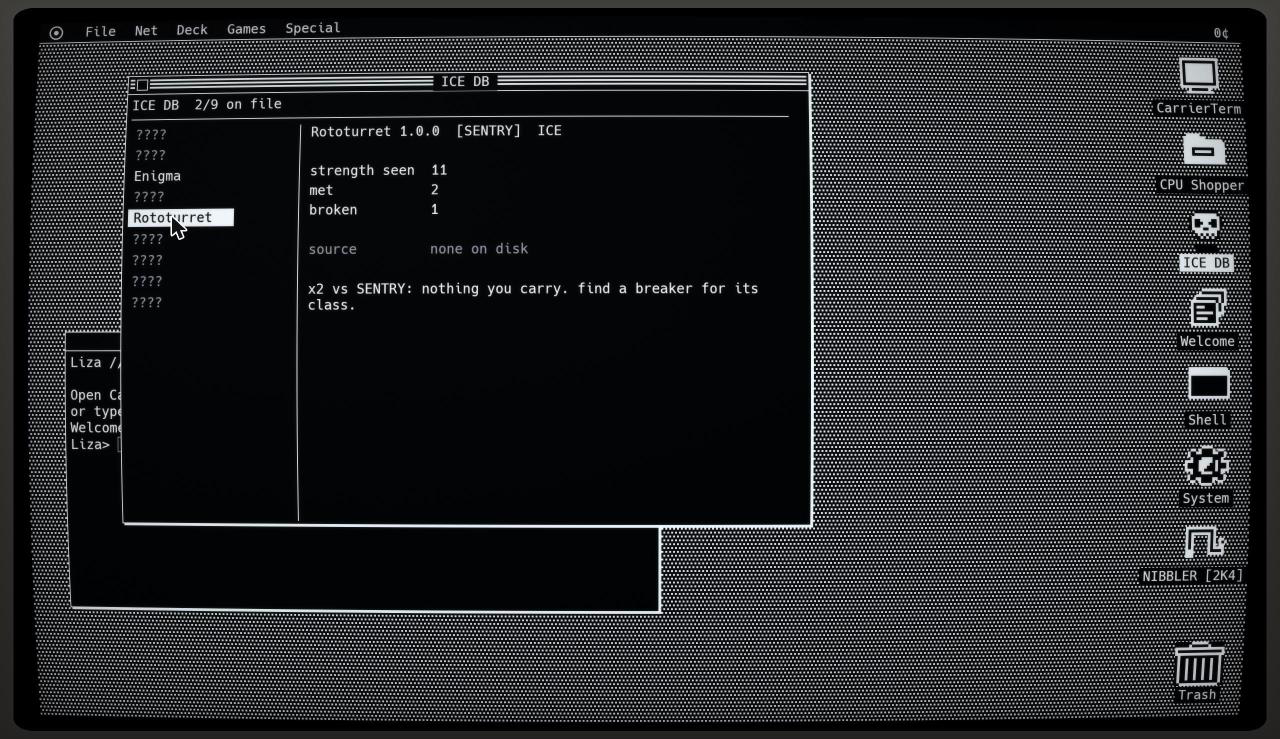
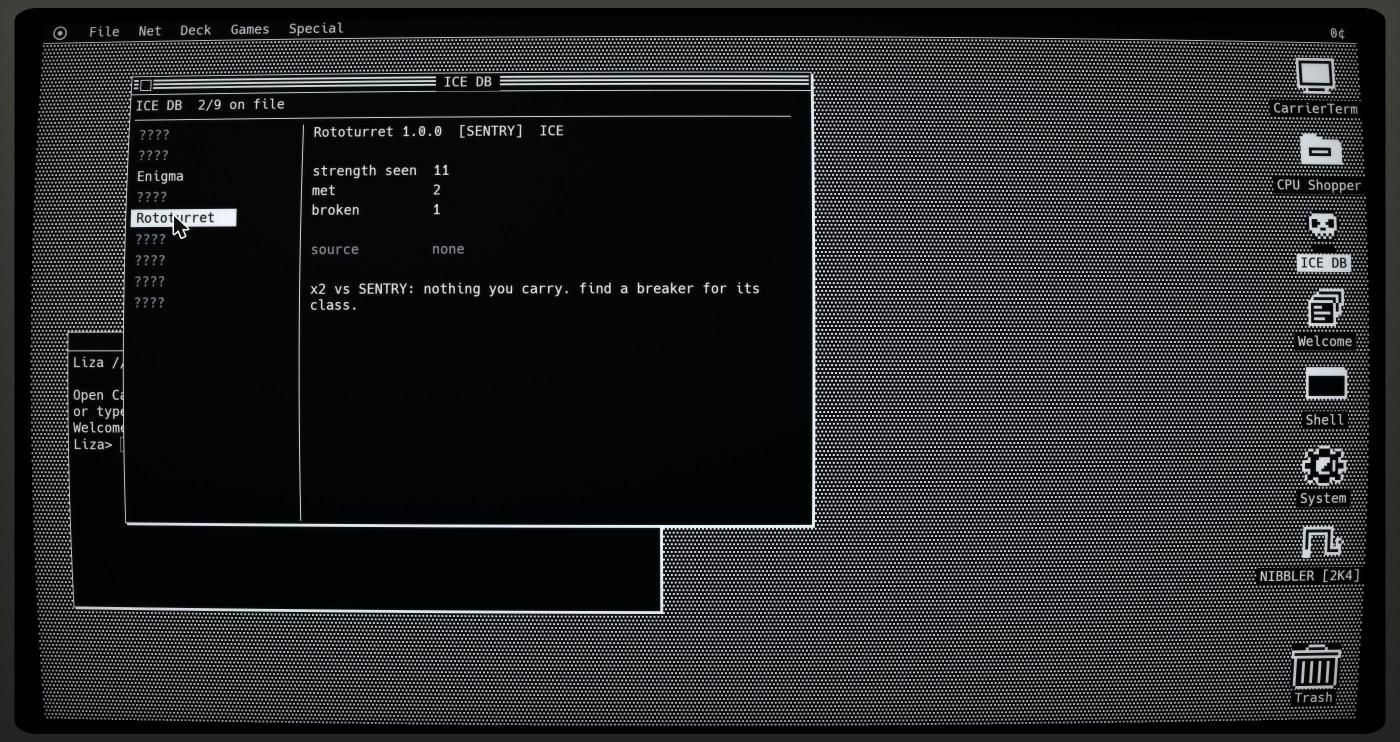
fix: no source names no disk: the stack says (none), the ICE DB source none
A source is the ICE DB's and the IDE's data, never a program on the deck, so neither screen points at the disk; the words test now forbids it. Shots retaken.

diff --git a/crates/core/src/icedb.rs b/crates/core/src/icedb.rs
@@ -174,11 +174,11 @@ impl<'a> Entry<'a> {
     }
 
     /// The newest source you own, listed whole and marked against the one before it you own;
-    /// with none, a line saying there's none on disk.
+    /// with none, a line saying there's none.
     pub fn listing(&self) -> Vec<PageLine> {
         if self.sources.is_empty() {
             return vec![PageLine {
-                text: "source         none on disk".into(),
+                text: "source         none".into(),
                 muted: true,
             }];
         }
@@ -186,7 +186,7 @@ impl<'a> Entry<'a> {
     }
 
     /// The changelog under the listing: a row per version you've met or own the source of (its
-    /// number, how it was made, the fights it won and lost, whether its source is on disk),
+    /// number, how it was made, the fights it won and lost, whether you own its source),
     /// newest first, then each older source you own, marked against the one before it. Empty
     /// until there are two versions to list.
     pub fn changelog(&self) -> Vec<PageLine> {

diff --git a/crates/core/tests/ice_listing.rs b/crates/core/tests/ice_listing.rs
@@ -279,17 +279,14 @@ fn each_deck_says_there_is_no_source_in_its_own_words() {
         ("hosaka", suite::ICE_WORDS),
         ("classic", ice_listing::CLASSIC),
     ];
-    assert_eq!(
-        stack_fight::ICE_WORDS.none,
-        "its program isn't on this disk."
-    );
+    assert_eq!(stack_fight::ICE_WORDS.none, "(none)");
     assert_eq!(btop_fight::ICE_WORDS.none, "[ no source available ]");
     assert_eq!(suite::ICE_WORDS.none, "PROGRAM HAS NO SYMBOL TABLE");
     for (deck, w) in decks {
         // What is there, never where to get one or that one can be got, never a count.
         let none = w.none.to_lowercase();
         for coach in [
-            "download", "board", "bbs", "buy", "get", "find", "line", "seen",
+            "download", "board", "bbs", "buy", "get", "find", "line", "seen", "disk",
         ] {
             assert!(!none.contains(coach), "{deck}: {:?}", w.none);
         }

diff --git a/crates/core/tests/ice_changelog.rs b/crates/core/tests/ice_changelog.rs
@@ -243,7 +243,7 @@ fn with_no_source_the_page_says_so_and_shows_no_code() {
         .filter(|l| l.muted)
         .map(|l| l.text)
         .collect();
-    assert_eq!(muted, ["source         none on disk"]);
+    assert_eq!(muted, ["source         none"]);
     for stmt in ["SHIELD", "TRACE 10", "ATTACK 4", "TRACE 4"] {
         assert!(!p.iter().any(|l| l.contains(stmt)), "{stmt}: {p:#?}");
     }
@@ -336,10 +336,7 @@ fn a_source_of_another_program_at_the_version_met_is_not_that_version_s() {
     let mut s = met_twice(&[]);
     s.ice_sources.push(source(v101(), V102));
     let p = page(&s, &d);
-    assert!(
-        p.contains(&"source         none on disk".to_string()),
-        "{p:#?}"
-    );
+    assert!(p.contains(&"source         none".to_string()), "{p:#?}");
     assert!(!p.iter().any(|l| l.contains("TRACE 5")), "{p:#?}");
     let rows = at(&p, "versions");
     assert_eq!(

diff --git a/crates/core/src/stack_fight.rs b/crates/core/src/stack_fight.rs
@@ -37,11 +37,12 @@ impl BlockKind {
     }
 }
 
-/// The ICE card's words for the ICE's program, the stack's: everything labelled, in plain
-/// words.
+/// The ICE card's words for the ICE's program, the stack's: everything labelled, and a field
+/// with nothing in it says `(none)` under its label, as a Get Info window would. It names no
+/// disk: a source isn't a program the deck carries.
 pub const ICE_WORDS: crate::ice_listing::IceWords = crate::ice_listing::IceWords {
     heading: "its program",
-    none: "its program isn't on this disk.",
+    none: "(none)",
 };
 
 /// The palette row, in order.

diff --git a/crates/core/tests/ice_shown_acceptance.rs b/crates/core/tests/ice_shown_acceptance.rs
@@ -100,7 +100,7 @@ fn the_ice_db_shows_only_the_sources_you_own() {
             "{}",
             page[0]
         );
-        assert!(page.contains(&"source         none on disk".to_string()));
+        assert!(page.contains(&"source         none".to_string()));
         for (_, _, program) in met.iter().filter(|(id, ..)| *id == e.def.id) {
             for stmt in statements(&e.def.id, program) {
                 assert!(

diff --git a/crates/core/tests/icedb.rs b/crates/core/tests/icedb.rs
@@ -105,7 +105,7 @@ fn a_fight_fills_in_its_entry() {
     let page = e.lines(&s, &d).join("\n");
     assert!(page.contains(e.def.class.label()));
     assert!(
-        page.contains("source         none on disk"),
+        page.contains("source         none"),
         "fighting it got no code: {page}"
     );
     // Fought again and lost: met twice, broken once.

diff --git a/docs/design.md b/docs/design.md
@@ -197,7 +197,7 @@ One pass through the program is one turn: start at the first line and run until 
 
 **NEXT is a dry run.** What the card telegraphs is the ICE's program walked from where it is to its first action, its IFs read against the fight as it stands, with no side effects and nothing from the RNG; it is asked again whenever it's shown or read, so it changes during your turn when you change what the ICE reads. Shield against Enigma (`10 IF TARGET SHIELD > 0` / `20 TRACE 10` / `30 ATTACK 4`) and its NEXT turns from ATTACK to TRACE on screen before it acts; that flip is the point, the preview being the rule. Lagged, or a program that would stall or run out of RAM first, has no NEXT. Only the next move is known: past it the ICE reads the fight as it will be then, so no screen lists moves ahead.
 
-**The ICE's code is downloaded, never watched** (141.11; 141.3.2 first showed what the deck had seen it run). Fighting an ICE reveals none of its program, on any deck, in the log or in the ICE DB: no line, no line count, no cursor. The listing is the **source** of the version in front, if the save owns it (`Save::ice_sources`, one per kind and version; a run takes them in at jack-in, and one got in a run comes home even on a flatline), or nothing at all. Owning 1.2.0 says nothing of 1.2.1. With the source every screen lists the program whole, with a mark on the line it carries on from and NEXT's line emphasised: the Sense/Net's ICE card under the hotbar (`its program`); the Ono-Sendai's fight view three lines under NEXT and `target.ice` a window under `PROG`, in btop's lowercase; the Hosaka's incident report a PROCEDURE table (step, statement) straight after its form, before the strength chart. Without it each deck says so as its software would and says no more, never where to get one: the stack `its program isn't on this disk.`, gdb's `[ no source available ]`, Turbo Debugger's `PROGRAM HAS NO SYMBOL TABLE`, the classic panes `NO SOURCE.`. The log keeps what the ICE did and drops which line did it (`Enigma hits for 4.`, not `Enigma 30 ATTACK 4: hits for 4.`; its IFs and GOTOs aren't said); with the source it reads as a debugger's trace again. **The telegraph is free**: NEXT, the fight view's charge ring and `IF NEXT …` work with no source, so a fight without one is playable but blind to the ICE's logic. A source is the ICE DB's and the IDE's data, a file and not a program: it takes no HDD slot and no stash room, and a fight shows it with or without the ICE DB. A new deck owns none, so its first fights are blind. Nothing in the game hands one out yet: the boards will carry them (141.11.2).
+**The ICE's code is downloaded, never watched** (141.11; 141.3.2 first showed what the deck had seen it run). Fighting an ICE reveals none of its program, on any deck, in the log or in the ICE DB: no line, no line count, no cursor. The listing is the **source** of the version in front, if the save owns it (`Save::ice_sources`, one per kind and version; a run takes them in at jack-in, and one got in a run comes home even on a flatline), or nothing at all. Owning 1.2.0 says nothing of 1.2.1. With the source every screen lists the program whole, with a mark on the line it carries on from and NEXT's line emphasised: the Sense/Net's ICE card under the hotbar (`its program`); the Ono-Sendai's fight view three lines under NEXT and `target.ice` a window under `PROG`, in btop's lowercase; the Hosaka's incident report a PROCEDURE table (step, statement) straight after its form, before the strength chart. Without it each deck says so as its software would and says no more, never where to get one: the stack `(none)` under its heading, gdb's `[ no source available ]`, Turbo Debugger's `PROGRAM HAS NO SYMBOL TABLE`, the classic panes `NO SOURCE.`. The log keeps what the ICE did and drops which line did it (`Enigma hits for 4.`, not `Enigma 30 ATTACK 4: hits for 4.`; its IFs and GOTOs aren't said); with the source it reads as a debugger's trace again. **The telegraph is free**: NEXT, the fight view's charge ring and `IF NEXT …` work with no source, so a fight without one is playable but blind to the ICE's logic. A source is the ICE DB's and the IDE's data, a file and not a program: it takes no HDD slot and no stash room, and a fight shows it with or without the ICE DB. A new deck owns none, so its first fights are blind. Nothing in the game hands one out yet: the boards will carry them (141.11.2).
 
 **ICE that attack the program** (141.3.3). Two verbs hit your program rather than your deck, so the answer is a better program, never a number:
 - **`SPOOF n`** hides the ICE's NEXT for the next n turns: every deck reads `???`, `IF NEXT …` is false (and still spends its GB), and the listing marks no NEXT line. The counter is a program that guards on INTEG instead, or the **sniffer**, RAZORWIRE's warez on Dead Sector, whose RUN clears the spoof.
@@ -215,7 +215,7 @@ A reader of the ICE's listing can predict both *when* and *where* (Archer SPOOFs
 - **The sysops simulate your script.** The rules book every fight of a run (a **bout**): how it opened (the deck's integrity and trace, the ICE's strength), the version it ran, and the deck as the ICE's conditions read it at each of its turns (a **tell**); the run's history and graphs don't feed it. When the deck beats a kind's version in force, its sysops wake with what they logged: the deck's numbers and programs, its script as the fight opened (not what the fight's SEGFAULTs left of it), and how that fight opened. They draft versions and fight each one against the script in the real game, from every start they kept (the latest six), and the first draft that costs the deck more than the version in force does (integrity lost, as a percent of its most, plus trace gained) by the bar ships. Least effort is the bound: they stop at the first draft over the bar, never the best, and try patches first, then minors, then majors. After their patience they rest without shipping. They rest on a kind once it ships, until the deck beats the version in force again; a new script starts a new search at patches. They only know the script: turns played by hand from the hotbar are how you stay unpredictable. **An ICE that kills you doesn't evolve**: the kind whose fight ended the run did its job, and its sysops rest. Drafts lean on the reads the script walked into in their duels. The ICE's machine is the only cap on how strong a version gets: with a few lines, its RAM and its verbs, it can't counter every move, which is why it has to keep evolving. A machine must hold a counter to the lazy program, though: SAFE_PICK raises two firewalls a turn (shield 10) whenever the ICE is next to attack, so Rototurret, whose only verb is Attack, has a range that reaches past 10. The bar, the pace and the patience are in `tuning.rs`.
 - **On the clock, mid-run too.** The sysops work on the game's running time, whether you're playing, reading or away from the keyboard: each kind under study gets a draft every five seconds (`STUDY_DRAFT_MS`), so a version usually lands within minutes of the deck beating its kind, and time with nobody studying banks nothing. A version that ships is in force on every net from the next fight with that kind, in the middle of a run if that's when it lands; a fight under way keeps the version it opened on, and its card says so. It is met knowing none of its lines, whatever source of the last the deck owns. What a version contains comes from the save's key, the kind, the version, the draft's number and the deck that beat it, so the same save and script reach the same versions however the time was sliced; only when they land depends on the clock. Every draw passes the check the row's own program passed; one that doesn't is drawn again, and when nothing of that size fits, a smaller change is made, or none.
 - **The version is where the name is.** Every fight screen that names its ICE names its version beside it: the Sense/Net's ICE card (`ENIGMA 1.1.1`), the Ono-Sendai's fight view and `target.ice`, the Hosaka's SUBJECT row and ICE watch, and the rez line in the log (`!! Enigma 1.1.1 rezzed`). 1.0.0 shows too: the number is the player's to read. The map names no ICE, only its class, so it shows no version. The step lines keep the bare name.
-- **The ICE DB is a changelog of the sources you own.** A kind's page heads with the version last met (`Enigma 1.1.1  [CODE GATE]  ICE`) and its fight record, then lists the newest source you own (`source         1.1.0, against 1.0.0`), or `none on disk`. It is marked against the next older source you own, a block at a time (an IF and its line, or a line on its own: the unit a version changes): a block is `~` if the older version had it elsewhere, `+` if it didn't, and a block that kept its read but changed inside is marked line by line; the older version's lines that are gone follow as `-`. The heading names the version its marks are against, which may not be the one it was made from. Under it, a row per version met or owned (its number, `patch`/`minor`/`major`, won and lost, `-` if never met, and whether its source is on disk), then each older source. A version met without its source has its number and record and no code.
+- **The ICE DB is a changelog of the sources you own.** A kind's page heads with the version last met (`Enigma 1.1.1  [CODE GATE]  ICE`) and its fight record, then lists the newest source you own (`source         1.1.0, against 1.0.0`), or `none`. It is marked against the next older source you own, a block at a time (an IF and its line, or a line on its own: the unit a version changes): a block is `~` if the older version had it elsewhere, `+` if it didn't, and a block that kept its read but changed inside is marked line by line; the older version's lines that are gone follow as `-`. The heading names the version its marks are against, which may not be the one it was made from. Under it, a row per version met or owned (its number, `patch`/`minor`/`major`, won and lost, `-` if never met, and whether you own its source), then each older source. A version met without its source has its number and record and no code.
 - **The world says so.** Nothing on the deck announces a new version; the boards do, in their own voice, as a bulletin after their own (`ice_news` in `board.ron`). The Gutter's ICE WATCH hears tier 1 and black ICE, in m0th's l33t ("rewritten from scratch. Throw out your notes."). Dead Sector's NEW BUILDS hears the black builds and kr4ken, short and paranoid. CorpLink's PERIMETER UPDATES are release notes from the Office of Information Security, which never calls it ICE. Sense/Net's customer line hears nothing. A rumour says a kind changed and how big the change was, never what it now does, so a new version is still met unknown. With nothing new, each board says so in its voice.
 
 **The probe.** The careful bot's strategy is written in the game's BASIC (`probe::CAREFUL`: defend first, then the breaker made for the ICE, then the strongest it carries), and the probe plays through the same interpreter. It is the bot's own program, not the kit's: it buys the specialists, so it names them. If the bot can't say it in the language, players can't either. The dumb bot is `10 RUN icepick` / `20 GOTO 10`, the program that loses from tier 2. The third is `probe::SAFE_PICK`, the starter's SAFE with `55 RUN icepick` typed in, the first program a player writes: ICE that read the deck make it lose at tier 2 (57% out on the starter deck, 55% in careers, and 30% against the versions its careers shipped). The report gives each program's exits, traced, ICE and black ICE deaths and turns per fight per tier, and plays the careers again with SAFE_PICK. Spot runs dial from a fresh save, so they meet 1.0.0 and compare with earlier reports. The careers face evolving ICE. The careful bot rotates through three programs (`CAREFUL`, `CAREFUL_B` without the firewall, `CAREFUL_C` breakers first) when a kind it met is patched or ICE kills it, as a player rewrites; SAFE_PICK never changes, since it is the lazy program the versions are written against. The report adds the versions shipped per kind, the careful exits by how many kinds were patched, and SAFE_PICK's spot runs played again against the versions its careers shipped, beside the 1.0.0 rows. The probe has no clock: its bots take 3 s an action and a minute at home a run (`PROBE_ACTION_MS`, `PROBE_HOME_MS`), the sysops work that time at their own pace, and the report prints the pace and the drafts a version cost. It ends with a met/unmet line per target: tier-1 versions beat the lazy program more than 1.0.0 does, and every tier-1 kind ships a version. The careful careers' exits are reported, never judged: evolving ICE are meant to make the game harder.

diff --git a/docs/architecture.md b/docs/architecture.md
@@ -49,7 +49,7 @@ Monitors and decks live in `data/hub/hardware.ron` (`HardwareDef::validate`); wh
 - **System is the settings app** (it replaced Prefs; `Tool::System`, `open prefs` still opens it). What its panels report is worked out in core (`crates/core/src/system.rs`: `system::overview` gives the OS, deck, firmware, each spec with its level and next upgrade, and installed tools with their `version` from `tools.ron`, then each owned copy of a game by its label, with the version from `games.ron`), tested there. Each desktop wears its own look, picked from the firmware's `Desktop` in `crates/app/src/system.rs`: Liza a System 6 Control Panel (the panels in the Liza kit's list box, the open `system::Panel` on the right, its switches the kit's check boxes and radio buttons), Desktop Workbench 1.3 Preferences (the Workbench kit's toggle gadgets across the top, solid-colour map), AnarchyOS a keyboard-first text-mode TUI (`crates/app/src/system_tui.rs`: written on the kit's `Sheet` and painted in its own 13pt type, tabs on 1-4 and `[`/`]` (never Tab, which moves the focus), neofetch About with the OS logo from `data/hub/fetch.ron` (`system::FetchDef`, `system::logo`), a text block map; every key has a click, keys live while the tile is focused via `SystemUi::keys`). All send the same `WbOut`s. Only the software you own is listed. **Disk** (`system::Panel::Disk`, it replaced STASH; `open stash` opens it) is the loadout as a block map: core's `disk.rs` works out what's installed in load order (`disk::installed`, the same programs `Save::kit` loads), the box beside it (`disk::shelf`), the map (`disk::map`, `BLOCKS_PER_SLOT` blocks a slot, display only), the RAM strip (`disk::ram_preview`), and `Save::install`/`remove`/`install_blocker`, all tested there; each kind's fill is data (`data/hub/disk.ron`, patterns from `data/patterns.ron`). **The loadout is remembered:** `Save::kit` passes each program's stash id (`Kit::origins`), the run keeps them (`Game::from_stash`, by slot uid), the exit's picker starts from `Game::loadout_keep`, and `Save::record` brings a kept one home under its old id so it stays installed; what didn't come home drops off `loadout.stash`. Tested in `crates/core/tests/loadout.rs`. **Fragmentation is saved** (`Save::disk_map`, block by block; empty means end to end): `disk::layout` keeps programs where they lie and gives new ones the first free blocks, `disk::fragmentation` is the share of split programs, `Save::fragment` scatters them (the hook for ICE that fragments your HDD, #125), and Defragment plays `disk::defrag_steps` (one swap a frame, paced by `system::anim`, display only) then `Save::defragment`.
 - **Tools are downloaded, never built in.** Desktop tools live in `data/hub/tools.ron` (`ToolDef`, ids in `data::TOOLS`); a board sells one as `Drop::Tool(id)`, and an `always: true` area stocks every file with no roll (it never touches the RNG). Owned tools are `Save::tools` and `Game::tools` (from `Kit::tools`, plus downloads, booked by `Save::record` even on a flatline). Until owned, a tool isn't there at all: no icon, menu item, tab, pane or command, and no hint from the OS (`Save::opens`, `Save::has_tool`, `Game::has_tool`, `command::parse_in`/`verbs`/`help`, `hub::shell` and `shell_complete`). Only the boards' textfiles (`Drop::Text`, read on a `Screen::Read`, lines in the board's `texts`) say where to get them. A textfile downloaded from its Read screen goes on `Game::texts`/`Save::texts` (`Save::keep_text`).
   - The QWK reader (`crates/core/src/qwk.rs`, `qwk::Reader`, drawn by `bbs_view::paint_screen`, the one 80x24 terminal painter, on the kit's `Cells` at 13pt with 15px rows, runs of glyphs through `Cells::run` and block art through `Cells::block`, in `Tool::Qwk`'s window) lists each known board's bulletins and kept textfiles, 78x24 like a BBS screen (`every_reader_screen_fits_the_terminal`).
-  - The ICE database (`crates/core/src/icedb.rs`, drawn by `hubtools::icedb` in `Tool::IceDb`'s window) reads `Save::ice_seen` for the fight record and `Save::ice_sources` for the code (`Entry::sources`, newest first, one per version). A kind you met or own a source of is named; its page heads with the version last met (or the newest source), and `Entry::listing` prints the newest source you own whole, marked against the next older one you own, or `none on disk` (muted). `Entry::changelog` adds a row per version met or owned (its record, `-` when never met, and `src`) and each older source, marked against the one before it. Every listing's marks come from `ice_listing::changes(verbs, prev, now)` (pure, two whole programs). It works on blocks (`units`: an IF and its line, or one line), aligned by the common run that keeps the most lines, then the most blocks at their numbers. A leftover block of `now` is `Mark::Moved` when an equal leftover of the version before is there for it. With the same read, it is paired and marked line by line. Otherwise it is `Mark::New`. The version before's leftover lines are `Mark::Removed`. A listing's heading names the version its marks are against. Marks print as a one-cell column (`Mark::glyph`).
+  - The ICE database (`crates/core/src/icedb.rs`, drawn by `hubtools::icedb` in `Tool::IceDb`'s window) reads `Save::ice_seen` for the fight record and `Save::ice_sources` for the code (`Entry::sources`, newest first, one per version). A kind you met or own a source of is named; its page heads with the version last met (or the newest source), and `Entry::listing` prints the newest source you own whole, marked against the next older one you own, or `none` (muted). `Entry::changelog` adds a row per version met or owned (its record, `-` when never met, and `src`) and each older source, marked against the one before it. Every listing's marks come from `ice_listing::changes(verbs, prev, now)` (pure, two whole programs). It works on blocks (`units`: an IF and its line, or one line), aligned by the common run that keeps the most lines, then the most blocks at their numbers. A leftover block of `now` is `Mark::Moved` when an equal leftover of the version before is there for it. With the same read, it is paired and marked line by line. Otherwise it is `Mark::New`. The version before's leftover lines are `Mark::Removed`. A listing's heading names the version its marks are against. Marks print as a one-cell column (`Mark::glyph`).
   - **The phone tools, one per board tier.** CarrierTerm (`hubtools::carrierterm`) is a plain directory with a splash (`data/intros/carrierterm.ron`, a `tagline` instead of greetz, played by `Home::splash_gate`): boards and networks listed, searched, filtered and stepped through by core's `directory.rs` (tested there), a card per line with a big Dial/Call button, and a dialing card with Hang up (`Home::dial_cut` cuts the modem). NiGHTCOMM (`Tool::NightComm`, the `nightcomm` tool from Dead Sector) is the hacker's dashboard, btop on a cell grid (`nightcomm_view.rs`, drawn with `cells::Cells`: whole cells, box titles cut into borders, key hints in the bottom border): heat and each number's last results (`Entry::last`), a wardialer with a block map (`Save::finds`, booked by `Save::wardial`; it replaces CarrierTerm's WarDial tab and needs no WARDIAL, `Save::can_wardial`) and the ranges you know, and TERM, a Hayes terminal on `ninsei-term`'s `LineEditor` (core's `at.rs`: `at::parse`, `at::run` turns a line into reply lines and an `at::Effect` the app carries out through `WbOut::At`; `Save::atdt` dials one number by hand, billed `Save::call_price`, answering exactly as its block would in a scan because `dial_block`'s draws never depend on what you already know); what it shows is worked out in core's `nightcomm.rs` and tested there. The Shell's `phonebook` shows heat only with it. Tier and traits are Tiger Team Pro's (`Tool::TigerTeam`, the `tigerteam` tool, a site licence on CorpLink), the corporate audit suite drawn as a Turbo Vision application (`tigerteam_view.rs`: a menu bar of sections, a double-framed window with a drop shadow, a status line; `Cells::vision` squares the corners and sets titles in the border). It does everything NiGHTCOMM does (`Save::has_dialer`; its Reconnaissance, Address Space and Console are NiGHTCOMM's pages, `nightcomm_view::{wardial, ranges, term}`, in its frame, with their own state on `TigerTeam::nc`) and writes up each number in core's `tigerteam.rs` (`tigerteam::profile`: tier, layers, ICE, trace, pay, board; each trait's `finding` and `severity` from `networks.ron`; an `Exposure` rating), tested there. The Shell's `phonebook` shows tier and traits only with it.
   - Text-mode tools lay out on the kit's `Cells` (`crates/app/src/kit/cells.rs`), never egui spacing. Desktop icons that don't fit one column start another (Liza's to the left, Desktop's along the right edge).
 - **The kit** (`crates/app/src/kit/`) is the one layer every fake app draws with. Its text-mode parts (`cells`, `list`, `fit`, `sheet`) own geometry and behaviour and leave the look to the caller; a desktop's GUI idiom is that desktop's parts, drawn to its spec sheet in `docs/refs/`: `anarchy` (AnarchyOS: tiles, the bar, the launcher, the help; `docs/refs/anarchyos.md`) and `liza` (System 1: the window frame, the menu bar and menus, the scroll bar and its scrolled view, the list box, push buttons with the default ring, check boxes, radio buttons, and HyperCard's text field, pop-up menu and dotted drop slot, a horizontal slider (`hslider`, a scroll bar used to set a value) and a `thermometer`, in a `kit::liza::Look` of the theme's ink and paper and the patterns; shared by the Liza desktop, System's Control Panel and the Stack chrome's Script card; `docs/refs/liza.md`) and `workbench` (Workbench 1.3: the screen's title bar, the window frame returning its close and depth gadgets' rects so the hit tests share them, the proportional gadget a window scrolls with, the 1.3 bevel, push buttons, toggle gadgets and the requester, in a `kit::workbench::Look` of the theme's colours; and a horizontal proportional gadget used as a slider (`hprop`) and a recessed list with its gadget (`list_box`), shared by Desktop, System's Preferences and TRAX; `docs/refs/workbench.md`). What their scroll bars share (where a view stands, the thumb, paging and dragging, the wheel only when nothing covers the bar, a view scrolling beside the desktop's own bar) is `kit::scrollbar`. Either way every colour comes in from the theme, and **nothing in it names a tool or a deck** (a widget that only works by checking which app draws it belongs in that app's renderer). New screens use the kit, and a touched screen moves onto it.
